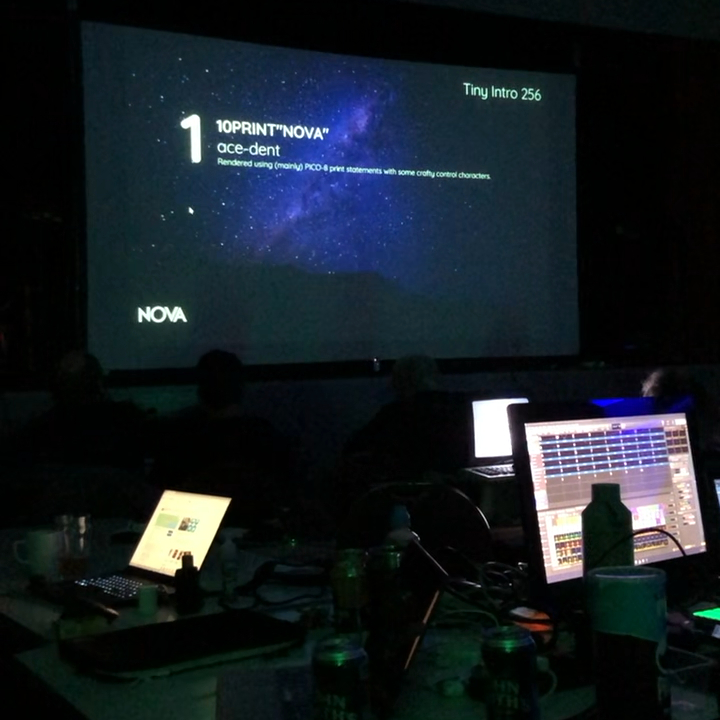
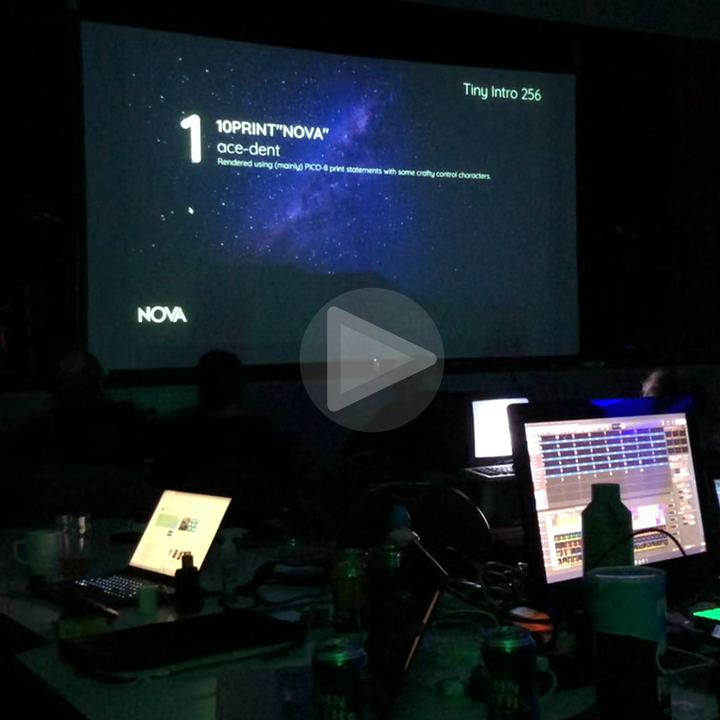
NOVA24: Add `file_id.diz`
- First attempt at creating a `DIZ` file. ASCII artwork created by ne7.
- Tweak video thumbnail.

Changed region(s): [[0.3972, 0.3972, 0.6417, 0.6111]]

diff --git a/NOVA2024/README.md b/NOVA2024/README.md
@@ -29,7 +29,7 @@ x=x+1goto a
 
 Code was optimized with the excellent [PXA Viz](https://carlc27843.itch.io/pico-8-source-compression-visualizer) tool by @carlc27843.
 
-Special thanks to the NOVA event team, inc. @rc55 and @djh0ffman; Dave84 for encouragement and guidance when I wavered!
+Special thanks to the NOVA event team, inc. @rc55 and @djh0ffman; Dave84 for encouragement and guidance when I wavered! Thanks to ne7 who created ASCII art for everyone's handle.
 
 
 ## Legal
@@ -90,5 +90,8 @@ All trademarks are the property of their respective owners. PICO-8 and Picotron 
 
 Really wonderful experience of attending- amazing, talented people- all very welcoming. It was a bit stressful coding at the party, so will try to prepare an entry in advance next year 😅. Fantastic to see presented on the Big Screen!
 
-[![Presentation](https://raw.githubusercontent.com/ace-dent/demo-toybox/main/NOVA2024/assets/thumbnail.jpg)](https://raw.githubusercontent.com/ace-dent/demo-toybox/main/NOVA2024/assets/video.mp4)
+<br>
 
+<a href="https://raw.githubusercontent.com/ace-dent/demo-toybox/main/NOVA2024/assets/video.mp4">
+    <img width="360" height="360" src="assets/thumbnail.jpg" alt="Presentation">
+<a>
